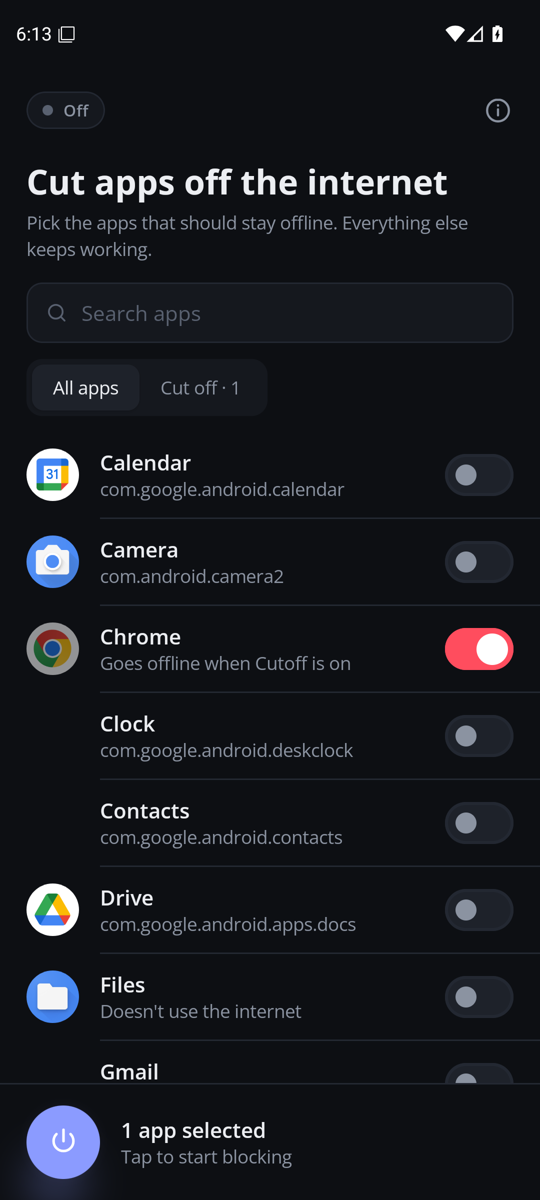
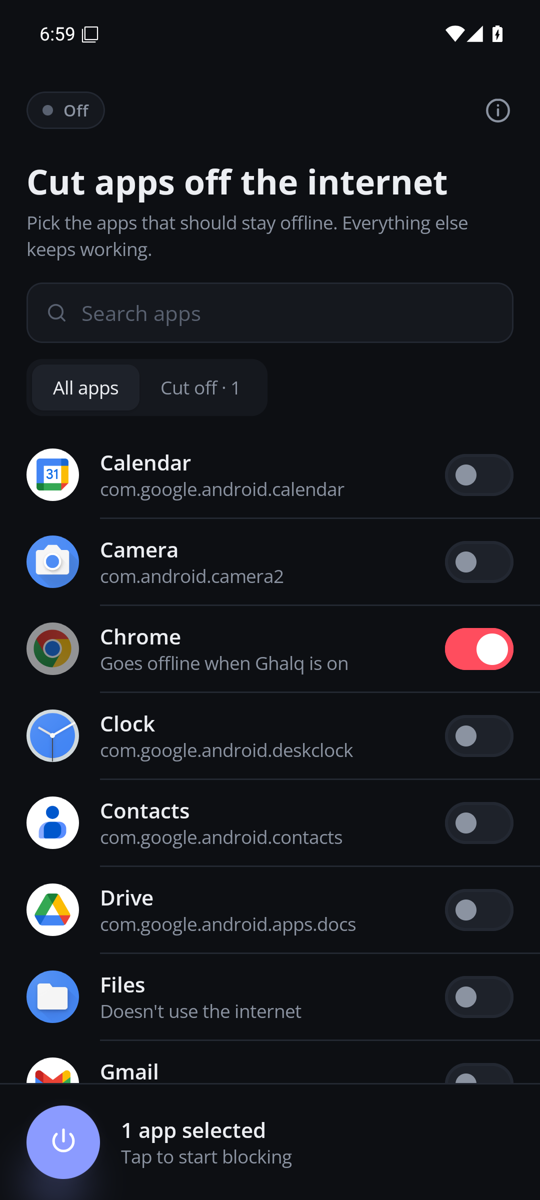
Rename app to Ghalq (غلق)
"Cutoff" is already used by several apps on Google Play and the App Store.
New package com.martdean.ghalq, Arabic label غلق, updated README, licence
and screenshots. Re-verified per-app blocking on an API 36 emulator.

diff --git a/app/src/main/java/com/martdean/ghalq/vpn/GhalqVpnService.kt b/app/src/main/java/com/martdean/ghalq/vpn/GhalqVpnService.kt
@@ -1,4 +1,4 @@
-package com.martdean.cutoff.vpn
+package com.martdean.ghalq.vpn
 
 import android.app.PendingIntent
 import android.content.Intent
@@ -11,9 +11,9 @@ import android.system.ErrnoException
 import android.system.Os
 import android.system.OsConstants
 import android.system.StructPollfd
-import com.martdean.cutoff.MainActivity
-import com.martdean.cutoff.R
-import com.martdean.cutoff.data.BlockStore
+import com.martdean.ghalq.MainActivity
+import com.martdean.ghalq.R
+import com.martdean.ghalq.data.BlockStore
 import java.net.InetAddress
 import java.net.InetSocketAddress
 import kotlin.concurrent.thread
@@ -21,9 +21,9 @@ import kotlin.concurrent.thread
 /**
  * A local "blackhole" VPN. Only the selected apps are routed into the tunnel, and nothing
  * is ever written back, so those apps lose internet while every other app is untouched.
- * No packet leaves the phone through Cutoff.
+ * No packet leaves the phone through Ghalq.
  */
-class CutoffVpnService : VpnService() {
+class GhalqVpnService : VpnService() {
 
     private var tunnel: ParcelFileDescriptor? = null
     @Volatile private var generation = 0
@@ -87,7 +87,7 @@ class CutoffVpnService : VpnService() {
             null
         }
         if (fresh == null) {
-            // VPN consent was revoked; the user must open Cutoff and approve again.
+            // VPN consent was revoked; the user must open Ghalq and approve again.
             BlockStore.get(this).setEnabled(false)
             shutdown(); stopSelf(); return
         }
@@ -106,7 +106,7 @@ class CutoffVpnService : VpnService() {
         val seenFlows = object : LinkedHashMap<String, Unit>(256, 0.75f, true) {
             override fun removeEldestEntry(eldest: MutableMap.MutableEntry<String, Unit>?) = size > 512
         }
-        thread(name = "cutoff-sink-$gen", isDaemon = true) {
+        thread(name = "ghalq-sink-$gen", isDaemon = true) {
             val fd = pfd.fileDescriptor
             val buffer = ByteArray(32767)
             val pollFd = StructPollfd().apply {
@@ -176,7 +176,7 @@ class CutoffVpnService : VpnService() {
     }
 
     override fun onRevoke() {
-        // Another VPN took over, or the user disconnected Cutoff in Settings.
+        // Another VPN took over, or the user disconnected Ghalq in Settings.
         BlockStore.get(this).setEnabled(false)
         shutdown()
         stopSelf()
@@ -188,7 +188,7 @@ class CutoffVpnService : VpnService() {
     }
 
     companion object {
-        const val ACTION_APPLY = "com.martdean.cutoff.APPLY"
-        const val ACTION_STOP = "com.martdean.cutoff.STOP"
+        const val ACTION_APPLY = "com.martdean.ghalq.APPLY"
+        const val ACTION_STOP = "com.martdean.ghalq.STOP"
     }
 }

diff --git a/app/src/main/java/com/martdean/ghalq/ui/theme/Theme.kt b/app/src/main/java/com/martdean/ghalq/ui/theme/Theme.kt
@@ -1,4 +1,4 @@
-package com.martdean.cutoff.ui.theme
+package com.martdean.ghalq.ui.theme
 
 import androidx.compose.foundation.isSystemInDarkTheme
 import androidx.compose.material3.MaterialTheme
@@ -15,11 +15,11 @@ import androidx.compose.ui.text.font.FontFamily
 import androidx.compose.ui.text.font.FontVariation
 import androidx.compose.ui.text.font.FontWeight
 import androidx.compose.ui.unit.sp
-import com.martdean.cutoff.R
+import com.martdean.ghalq.R
 
 /** Design tokens shared with Martin Dean's other apps (calm, dark-first). */
 @Immutable
-data class CutoffColors(
+data class GhalqColors(
     val bg: Color,
     val surface: Color,
     val surface2: Color,
@@ -33,14 +33,14 @@ data class CutoffColors(
     val dark: Boolean,
 )
 
-val DarkTokens = CutoffColors(
+val DarkTokens = GhalqColors(
     bg = Color(0xFF0D0F13), surface = Color(0xFF15181E), surface2 = Color(0xFF1E222A),
     line = Color(0xFF232832), text = Color(0xFFECEEF2), muted = Color(0xFF8B93A1),
     faint = Color(0xFF596170), accent = Color(0xFF8B9BFF), danger = Color(0xFFFF4D5E),
     ok = Color(0xFF4CC38A), dark = true,
 )
 
-val LightTokens = CutoffColors(
+val LightTokens = GhalqColors(
     bg = Color(0xFFF7F8FA), surface = Color(0xFFFFFFFF), surface2 = Color(0xFFEEF0F4),
     line = Color(0xFFE4E7EC), text = Color(0xFF12151A), muted = Color(0xFF5D6574),
     faint = Color(0xFFA0A7B3), accent = Color(0xFF5B6CF0), danger = Color(0xFFE5394B),
@@ -65,7 +65,7 @@ val OpenSans = FontFamily(sans(400), sans(500), sans(600), sans(700))
 val Cairo = FontFamily(arabic(400), arabic(500), arabic(600), arabic(700))
 
 @Composable
-fun CutoffTheme(content: @Composable () -> Unit) {
+fun GhalqTheme(content: @Composable () -> Unit) {
     val tokens = if (isSystemInDarkTheme()) DarkTokens else LightTokens
     val arabicUi = androidx.compose.ui.platform.LocalConfiguration.current.locales[0].language == "ar"
     val family = if (arabicUi) Cairo else OpenSans

diff --git a/app/src/test/java/com/martdean/ghalq/vpn/TunnelPlanTest.kt b/app/src/test/java/com/martdean/ghalq/vpn/TunnelPlanTest.kt
@@ -1,4 +1,4 @@
-package com.martdean.cutoff.vpn
+package com.martdean.ghalq.vpn
 
 import org.junit.Assert.assertEquals
 import org.junit.Assert.assertTrue
@@ -6,24 +6,24 @@ import org.junit.Test
 
 class TunnelPlanTest {
 
-    private val installed = setOf("com.zhiliaoapp.musically", "com.android.chrome", "com.martdean.cutoff")
+    private val installed = setOf("com.zhiliaoapp.musically", "com.android.chrome", "com.martdean.ghalq")
 
     @Test
     fun emptySelectionProducesEmptyPlan() {
         // An empty plan must never become a tunnel: the service stops instead.
-        assertTrue(TunnelPlan.packagesToRoute(emptySet(), "com.martdean.cutoff") { it in installed }.isEmpty())
+        assertTrue(TunnelPlan.packagesToRoute(emptySet(), "com.martdean.ghalq") { it in installed }.isEmpty())
     }
 
     @Test
     fun neverRoutesItself() {
-        val plan = TunnelPlan.packagesToRoute(setOf("com.martdean.cutoff"), "com.martdean.cutoff") { it in installed }
+        val plan = TunnelPlan.packagesToRoute(setOf("com.martdean.ghalq"), "com.martdean.ghalq") { it in installed }
         assertTrue(plan.isEmpty())
     }
 
     @Test
     fun dropsUninstalledAndBlankPackages() {
         val plan = TunnelPlan.packagesToRoute(
-            setOf("com.android.chrome", "gone.app", " "), "com.martdean.cutoff"
+            setOf("com.android.chrome", "gone.app", " "), "com.martdean.ghalq"
         ) { it in installed }
         assertEquals(listOf("com.android.chrome"), plan)
     }
@@ -31,7 +31,7 @@ class TunnelPlanTest {
     @Test
     fun planIsSortedAndStable() {
         val plan = TunnelPlan.packagesToRoute(
-            setOf("com.zhiliaoapp.musically", "com.android.chrome"), "com.martdean.cutoff"
+            setOf("com.zhiliaoapp.musically", "com.android.chrome"), "com.martdean.ghalq"
         ) { it in installed }
         assertEquals(listOf("com.android.chrome", "com.zhiliaoapp.musically"), plan)
     }

diff --git a/app/src/main/java/com/martdean/ghalq/ui/GhalqApp.kt b/app/src/main/java/com/martdean/ghalq/ui/GhalqApp.kt
@@ -1,4 +1,4 @@
-package com.martdean.cutoff.ui
+package com.martdean.ghalq.ui
 
 import android.app.Activity
 import android.content.Intent
@@ -81,14 +81,14 @@ import androidx.lifecycle.Lifecycle
 import androidx.lifecycle.compose.LifecycleEventEffect
 import androidx.lifecycle.compose.collectAsStateWithLifecycle
 import androidx.lifecycle.viewmodel.compose.viewModel
-import com.martdean.cutoff.R
-import com.martdean.cutoff.data.AppInfo
-import com.martdean.cutoff.data.AppRepository
-import com.martdean.cutoff.ui.theme.CutoffColors
-import com.martdean.cutoff.ui.theme.LocalTokens
+import com.martdean.ghalq.R
+import com.martdean.ghalq.data.AppInfo
+import com.martdean.ghalq.data.AppRepository
+import com.martdean.ghalq.ui.theme.GhalqColors
+import com.martdean.ghalq.ui.theme.LocalTokens
 
 @Composable
-fun CutoffApp(vm: MainViewModel = viewModel()) {
+fun GhalqApp(vm: MainViewModel = viewModel()) {
     val state by vm.state.collectAsStateWithLifecycle()
     val t = LocalTokens.current
     val context = LocalContext.current
@@ -99,7 +99,7 @@ fun CutoffApp(vm: MainViewModel = viewModel()) {
         else Toast.makeText(context, R.string.toast_consent_denied, Toast.LENGTH_LONG).show()
     }
 
-    // Apps installed or removed while Cutoff was in the background.
+    // Apps installed or removed while Ghalq was in the background.
     LifecycleEventEffect(Lifecycle.Event.ON_RESUME) { vm.refreshApps() }
 
     val onPower: () -> Unit = {
@@ -346,7 +346,7 @@ private fun AppRow(
     repository: AppRepository,
     onToggle: () -> Unit,
     first: Boolean,
-    tokens: CutoffColors,
+    tokens: GhalqColors,
 ) {
     val t = tokens
     val sizePx = with(LocalDensity.current) { 40.dp.roundToPx() }

diff --git a/app/src/main/java/com/martdean/ghalq/vpn/VpnController.kt b/app/src/main/java/com/martdean/ghalq/vpn/VpnController.kt
@@ -1,19 +1,19 @@
-package com.martdean.cutoff.vpn
+package com.martdean.ghalq.vpn
 
 import android.content.Context
 import android.content.Intent
 import android.net.VpnService
-import com.martdean.cutoff.data.BlockStore
+import com.martdean.ghalq.data.BlockStore
 
 object VpnController {
 
-    /** True when the user still has to approve Cutoff as a VPN. */
+    /** True when the user still has to approve Ghalq as a VPN. */
     fun needsConsent(context: Context): Boolean = VpnService.prepare(context) != null
 
     /** Starts the tunnel or rebuilds it with the current selection. Call from a visible screen. */
     fun start(context: Context): Boolean = runCatching {
         context.startService(
-            Intent(context, CutoffVpnService::class.java).setAction(CutoffVpnService.ACTION_APPLY)
+            Intent(context, GhalqVpnService::class.java).setAction(GhalqVpnService.ACTION_APPLY)
         )
         true
     }.getOrDefault(false)
@@ -23,7 +23,7 @@ object VpnController {
         if (!TunnelState.running.value) return
         runCatching {
             context.startService(
-                Intent(context, CutoffVpnService::class.java).setAction(CutoffVpnService.ACTION_STOP)
+                Intent(context, GhalqVpnService::class.java).setAction(GhalqVpnService.ACTION_STOP)
             )
         }
     }

diff --git a/app/src/main/java/com/martdean/ghalq/data/BlockStore.kt b/app/src/main/java/com/martdean/ghalq/data/BlockStore.kt
@@ -1,4 +1,4 @@
-package com.martdean.cutoff.data
+package com.martdean.ghalq.data
 
 import android.content.Context
 import kotlinx.coroutines.flow.MutableStateFlow
@@ -17,7 +17,7 @@ class BlockStore private constructor(context: Context) {
     val blocked: StateFlow<Set<String>> = _blocked.asStateFlow()
 
     private val _enabled = MutableStateFlow(prefs.getBoolean(KEY_ENABLED, false))
-    /** What the user asked for. Whether the tunnel is actually up lives in [com.martdean.cutoff.vpn.TunnelState]. */
+    /** What the user asked for. Whether the tunnel is actually up lives in [com.martdean.ghalq.vpn.TunnelState]. */
     val enabled: StateFlow<Boolean> = _enabled.asStateFlow()
 
     @Synchronized
@@ -34,7 +34,7 @@ class BlockStore private constructor(context: Context) {
     }
 
     companion object {
-        private const val PREFS = "cutoff"
+        private const val PREFS = "ghalq"
         private const val KEY_BLOCKED = "blocked_packages"
         private const val KEY_ENABLED = "enabled"
 

diff --git a/app/src/main/java/com/martdean/ghalq/MainActivity.kt b/app/src/main/java/com/martdean/ghalq/MainActivity.kt
@@ -1,12 +1,12 @@
-package com.martdean.cutoff
+package com.martdean.ghalq
 
 import android.os.Bundle
 import androidx.activity.ComponentActivity
 import androidx.activity.SystemBarStyle
 import androidx.activity.compose.setContent
 import androidx.activity.enableEdgeToEdge
-import com.martdean.cutoff.ui.CutoffApp
-import com.martdean.cutoff.ui.theme.CutoffTheme
+import com.martdean.ghalq.ui.GhalqApp
+import com.martdean.ghalq.ui.theme.GhalqTheme
 
 class MainActivity : ComponentActivity() {
     override fun onCreate(savedInstanceState: Bundle?) {
@@ -16,8 +16,8 @@ class MainActivity : ComponentActivity() {
         )
         super.onCreate(savedInstanceState)
         setContent {
-            CutoffTheme {
-                CutoffApp()
+            GhalqTheme {
+                GhalqApp()
             }
         }
     }

diff --git a/app/src/main/java/com/martdean/ghalq/ui/MainViewModel.kt b/app/src/main/java/com/martdean/ghalq/ui/MainViewModel.kt
@@ -1,13 +1,13 @@
-package com.martdean.cutoff.ui
+package com.martdean.ghalq.ui
 
 import android.app.Application
 import androidx.lifecycle.AndroidViewModel
 import androidx.lifecycle.viewModelScope
-import com.martdean.cutoff.data.AppInfo
-import com.martdean.cutoff.data.AppRepository
-import com.martdean.cutoff.data.BlockStore
-import com.martdean.cutoff.vpn.TunnelState
-import com.martdean.cutoff.vpn.VpnController
+import com.martdean.ghalq.data.AppInfo
+import com.martdean.ghalq.data.AppRepository
+import com.martdean.ghalq.data.BlockStore
+import com.martdean.ghalq.vpn.TunnelState
+import com.martdean.ghalq.vpn.VpnController
 import kotlinx.coroutines.FlowPreview
 import kotlinx.coroutines.flow.MutableStateFlow
 import kotlinx.coroutines.flow.SharingStarted

diff --git a/app/src/main/java/com/martdean/ghalq/vpn/GhalqTileService.kt b/app/src/main/java/com/martdean/ghalq/vpn/GhalqTileService.kt
@@ -1,16 +1,16 @@
-package com.martdean.cutoff.vpn
+package com.martdean.ghalq.vpn
 
 import android.app.PendingIntent
 import android.content.Intent
 import android.os.Build
 import android.service.quicksettings.Tile
 import android.service.quicksettings.TileService
-import com.martdean.cutoff.MainActivity
-import com.martdean.cutoff.R
-import com.martdean.cutoff.data.BlockStore
+import com.martdean.ghalq.MainActivity
+import com.martdean.ghalq.R
+import com.martdean.ghalq.data.BlockStore
 
 /** Quick Settings tile: one tap to switch blocking on or off. */
-class CutoffTileService : TileService() {
+class GhalqTileService : TileService() {
 
     override fun onStartListening() {
         super.onStartListening()

diff --git a/app/src/main/java/com/martdean/ghalq/data/AppRepository.kt b/app/src/main/java/com/martdean/ghalq/data/AppRepository.kt
@@ -1,4 +1,4 @@
-package com.martdean.cutoff.data
+package com.martdean.ghalq.data
 
 import android.Manifest
 import android.content.Context
@@ -25,7 +25,7 @@ class AppRepository(context: Context) {
     private val selfPackage = context.packageName
     private val icons = LruCache<String, ImageBitmap>(256)
 
-    /** Every app with a launcher icon, except Cutoff itself, sorted by name. */
+    /** Every app with a launcher icon, except Ghalq itself, sorted by name. */
     suspend fun loadApps(): List<AppInfo> = withContext(Dispatchers.IO) {
         val launcher = Intent(Intent.ACTION_MAIN).addCategory(Intent.CATEGORY_LAUNCHER)
         val collator = Collator.getInstance()

diff --git a/app/src/main/java/com/martdean/ghalq/vpn/TunnelState.kt b/app/src/main/java/com/martdean/ghalq/vpn/TunnelState.kt
@@ -1,4 +1,4 @@
-package com.martdean.cutoff.vpn
+package com.martdean.ghalq.vpn
 
 import android.content.ComponentName
 import android.content.Context
@@ -45,7 +45,7 @@ object TunnelState {
     fun refreshTile(context: Context) {
         runCatching {
             TileService.requestListeningState(
-                context, ComponentName(context, CutoffTileService::class.java)
+                context, ComponentName(context, GhalqTileService::class.java)
             )
         }
     }

diff --git a/app/src/main/java/com/martdean/ghalq/vpn/BootReceiver.kt b/app/src/main/java/com/martdean/ghalq/vpn/BootReceiver.kt
@@ -1,9 +1,9 @@
-package com.martdean.cutoff.vpn
+package com.martdean.ghalq.vpn
 
 import android.content.BroadcastReceiver
 import android.content.Context
 import android.content.Intent
-import com.martdean.cutoff.data.BlockStore
+import com.martdean.ghalq.data.BlockStore
 
 /** Restores blocking after a reboot or an app update if it was on before. */
 class BootReceiver : BroadcastReceiver() {
